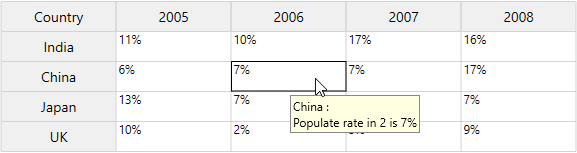
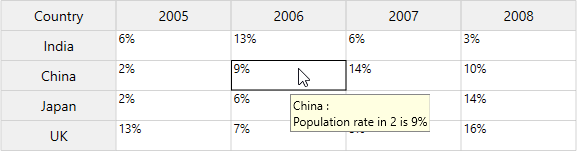
WPF-50757-Modified the content of input message tip document

diff --git a/wpf/GridControl/Input-Message-Tip.md b/wpf/GridControl/Input-Message-Tip.md
@@ -46,7 +46,8 @@ The input message tip can be displayed for any row or column by setting the [Sho
 {% highlight C# %}
 
 //Adding input message tip for specific row
-grid.Model.RowStyles[1].DataValidationTooltip = "Hello";grid.Model.RowStyles[1].ShowDataValidationTooltip = true;
+grid.Model.RowStyles[1].DataValidationTooltip = "Hello";
+grid.Model.RowStyles[1].ShowDataValidationTooltip = true;
 
 //Adding input message tip for specific column
 grid.Model.ColStyles[1].DataValidationTooltip = "Hello";
@@ -67,7 +68,7 @@ An another way to set the input message tip for specific row and column.
 //Add input message tip for specific row
 for (int i = 1; i <= 4; i++)
 {
-    string comment = grid.Model[1, 0].CellValue + " :\nPopulate rate in " + grid.Model[1, i].ColumnIndex + " is " + grid.Model[1, i].CellValue;
+    string comment = grid.Model[1, 0].CellValue + " :\nPopulation rate in " + grid.Model[1, i].ColumnIndex + " is " + grid.Model[1, i].CellValue;
     grid.Model[1, i].DataValidationTooltip = comment;
     grid.Model[1, i].ShowDataValidationTooltip = true;
 }
@@ -75,7 +76,7 @@ for (int i = 1; i <= 4; i++)
 //Add input message tip for specific column
 for (int i = 1; i <= 4; i++)
 {
-    string comment = grid.Model[i, 0].CellValue + " :\nPopulate rate in " + grid.Model[i, 2].RowIndex + " is " + grid.Model[i, 2].CellValue;
+    string comment = grid.Model[i, 0].CellValue + " :\nPopulation rate in " + grid.Model[i, 2].RowIndex + " is " + grid.Model[i, 2].CellValue;
     grid.Model[i, 2].DataValidationTooltip = comment;
     grid.Model[i, 2].ShowDataValidationTooltip = true;
 }
